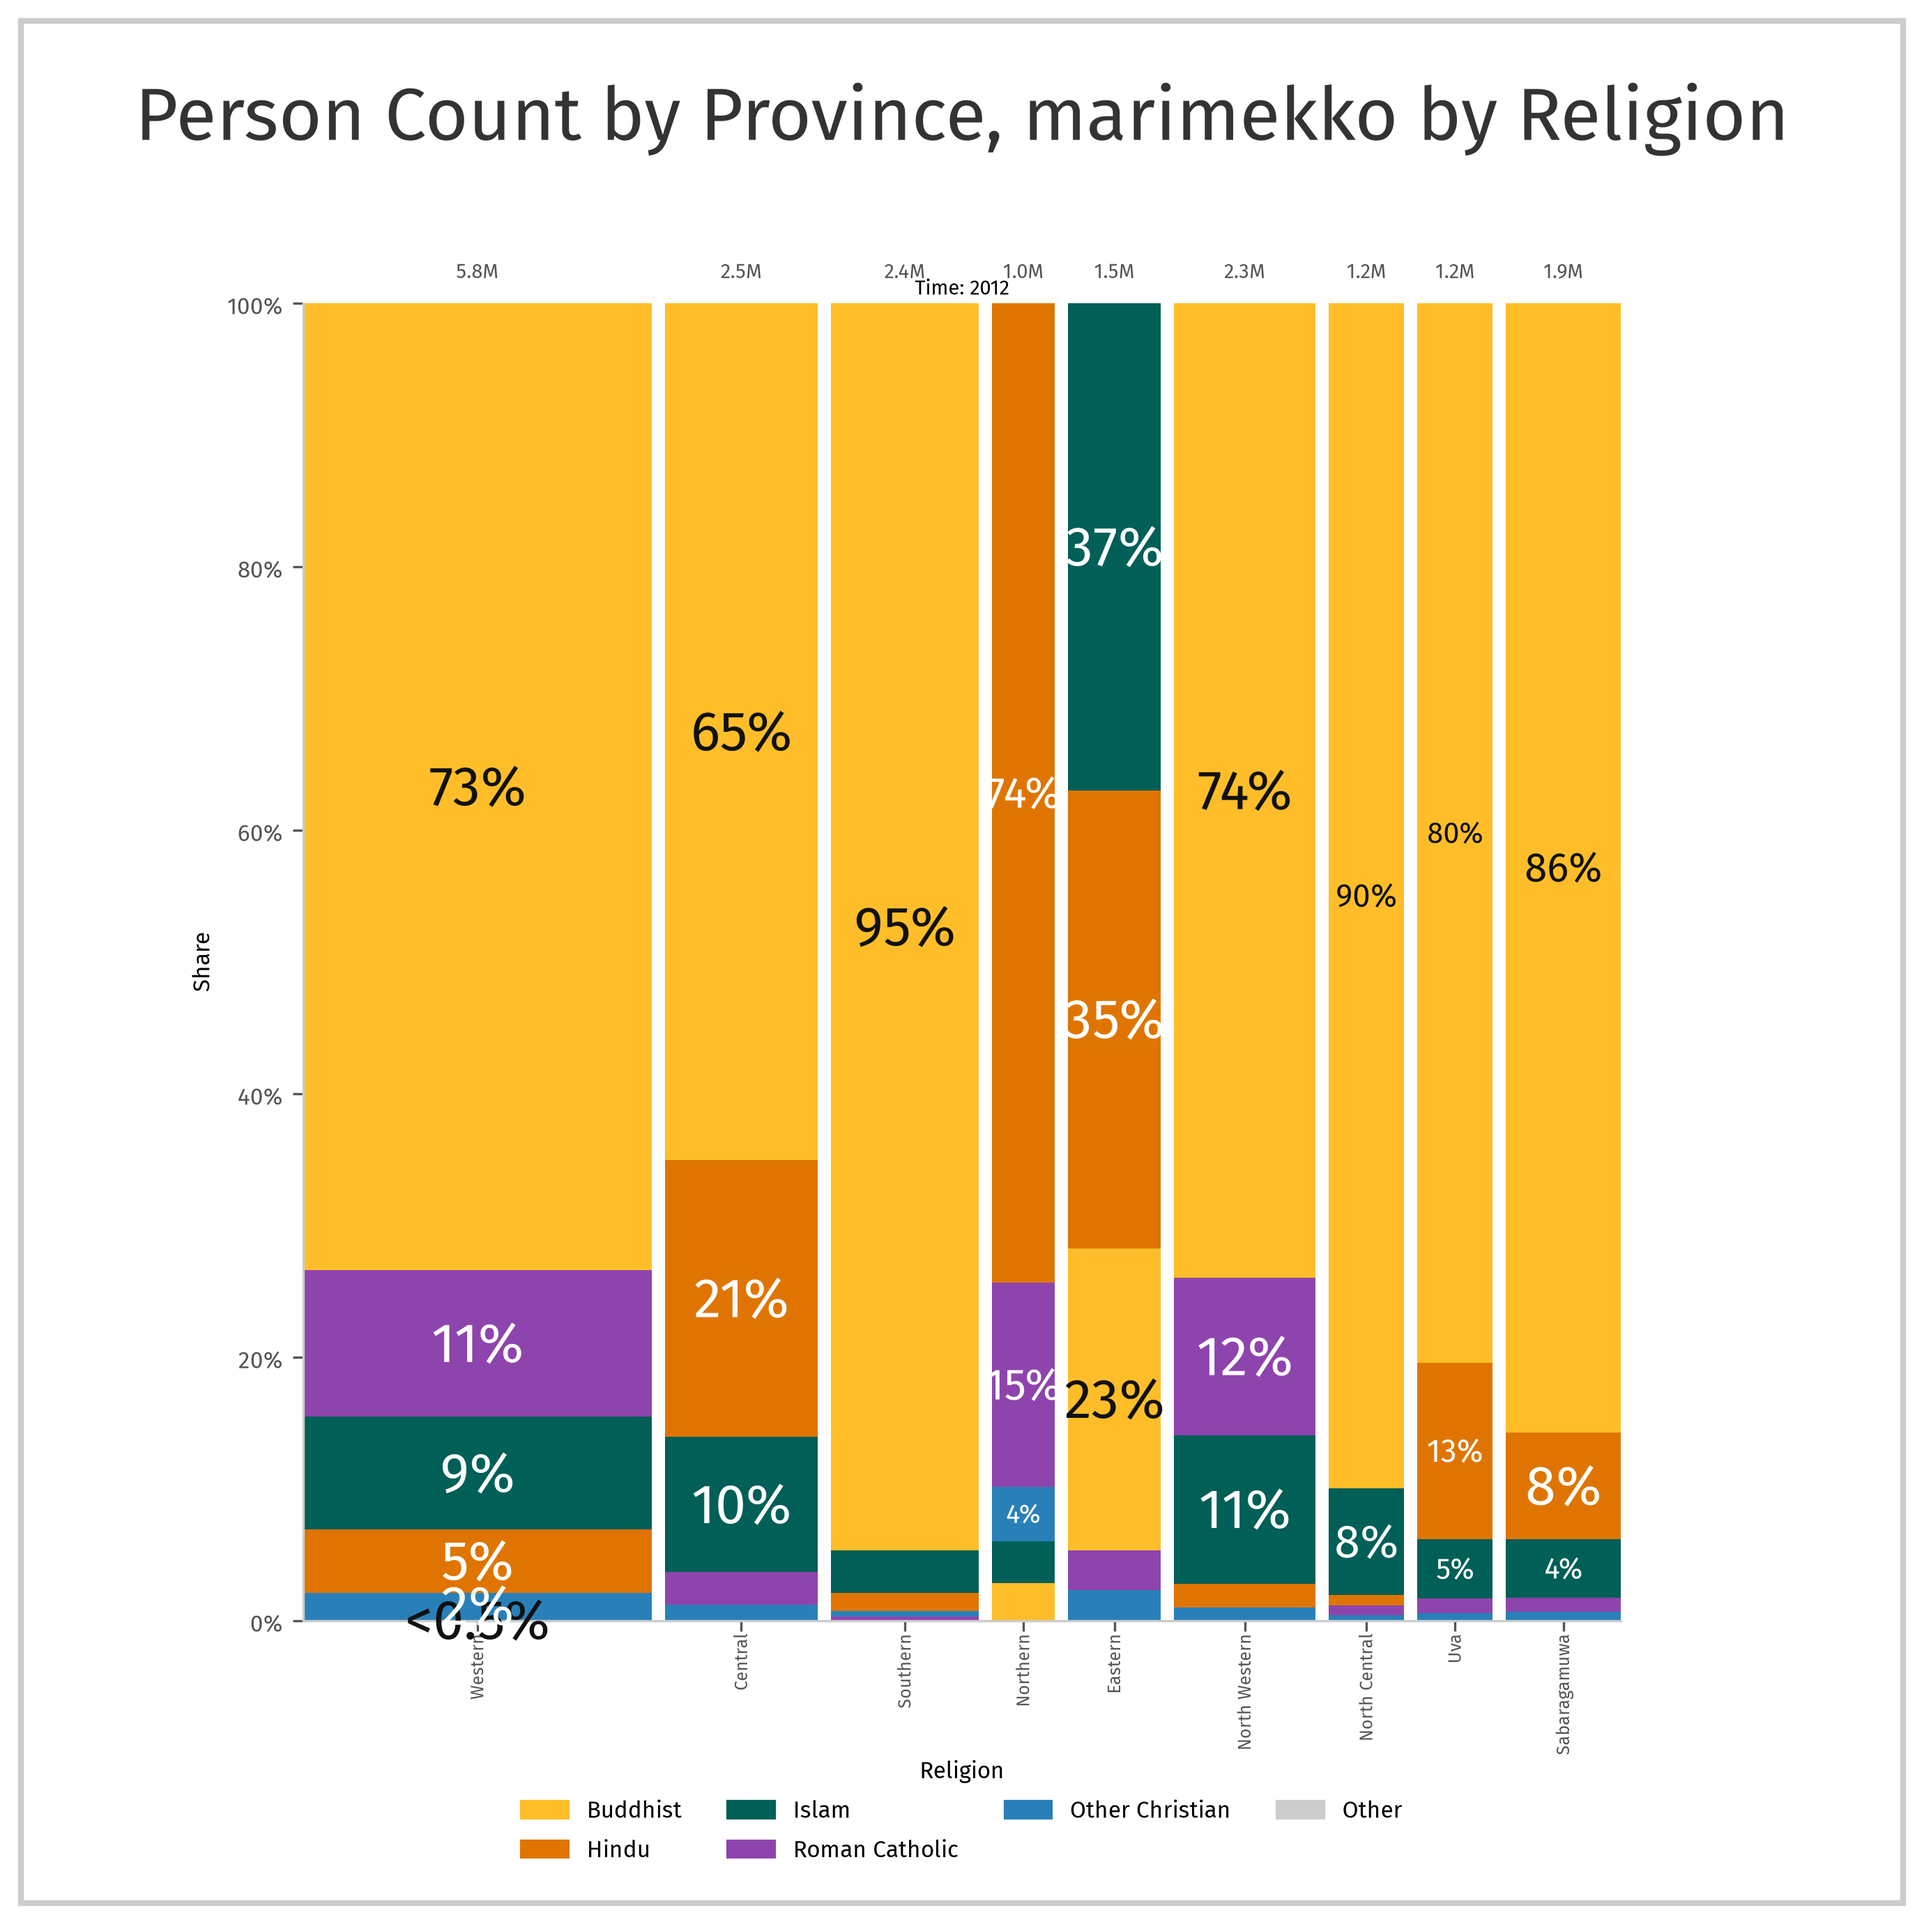
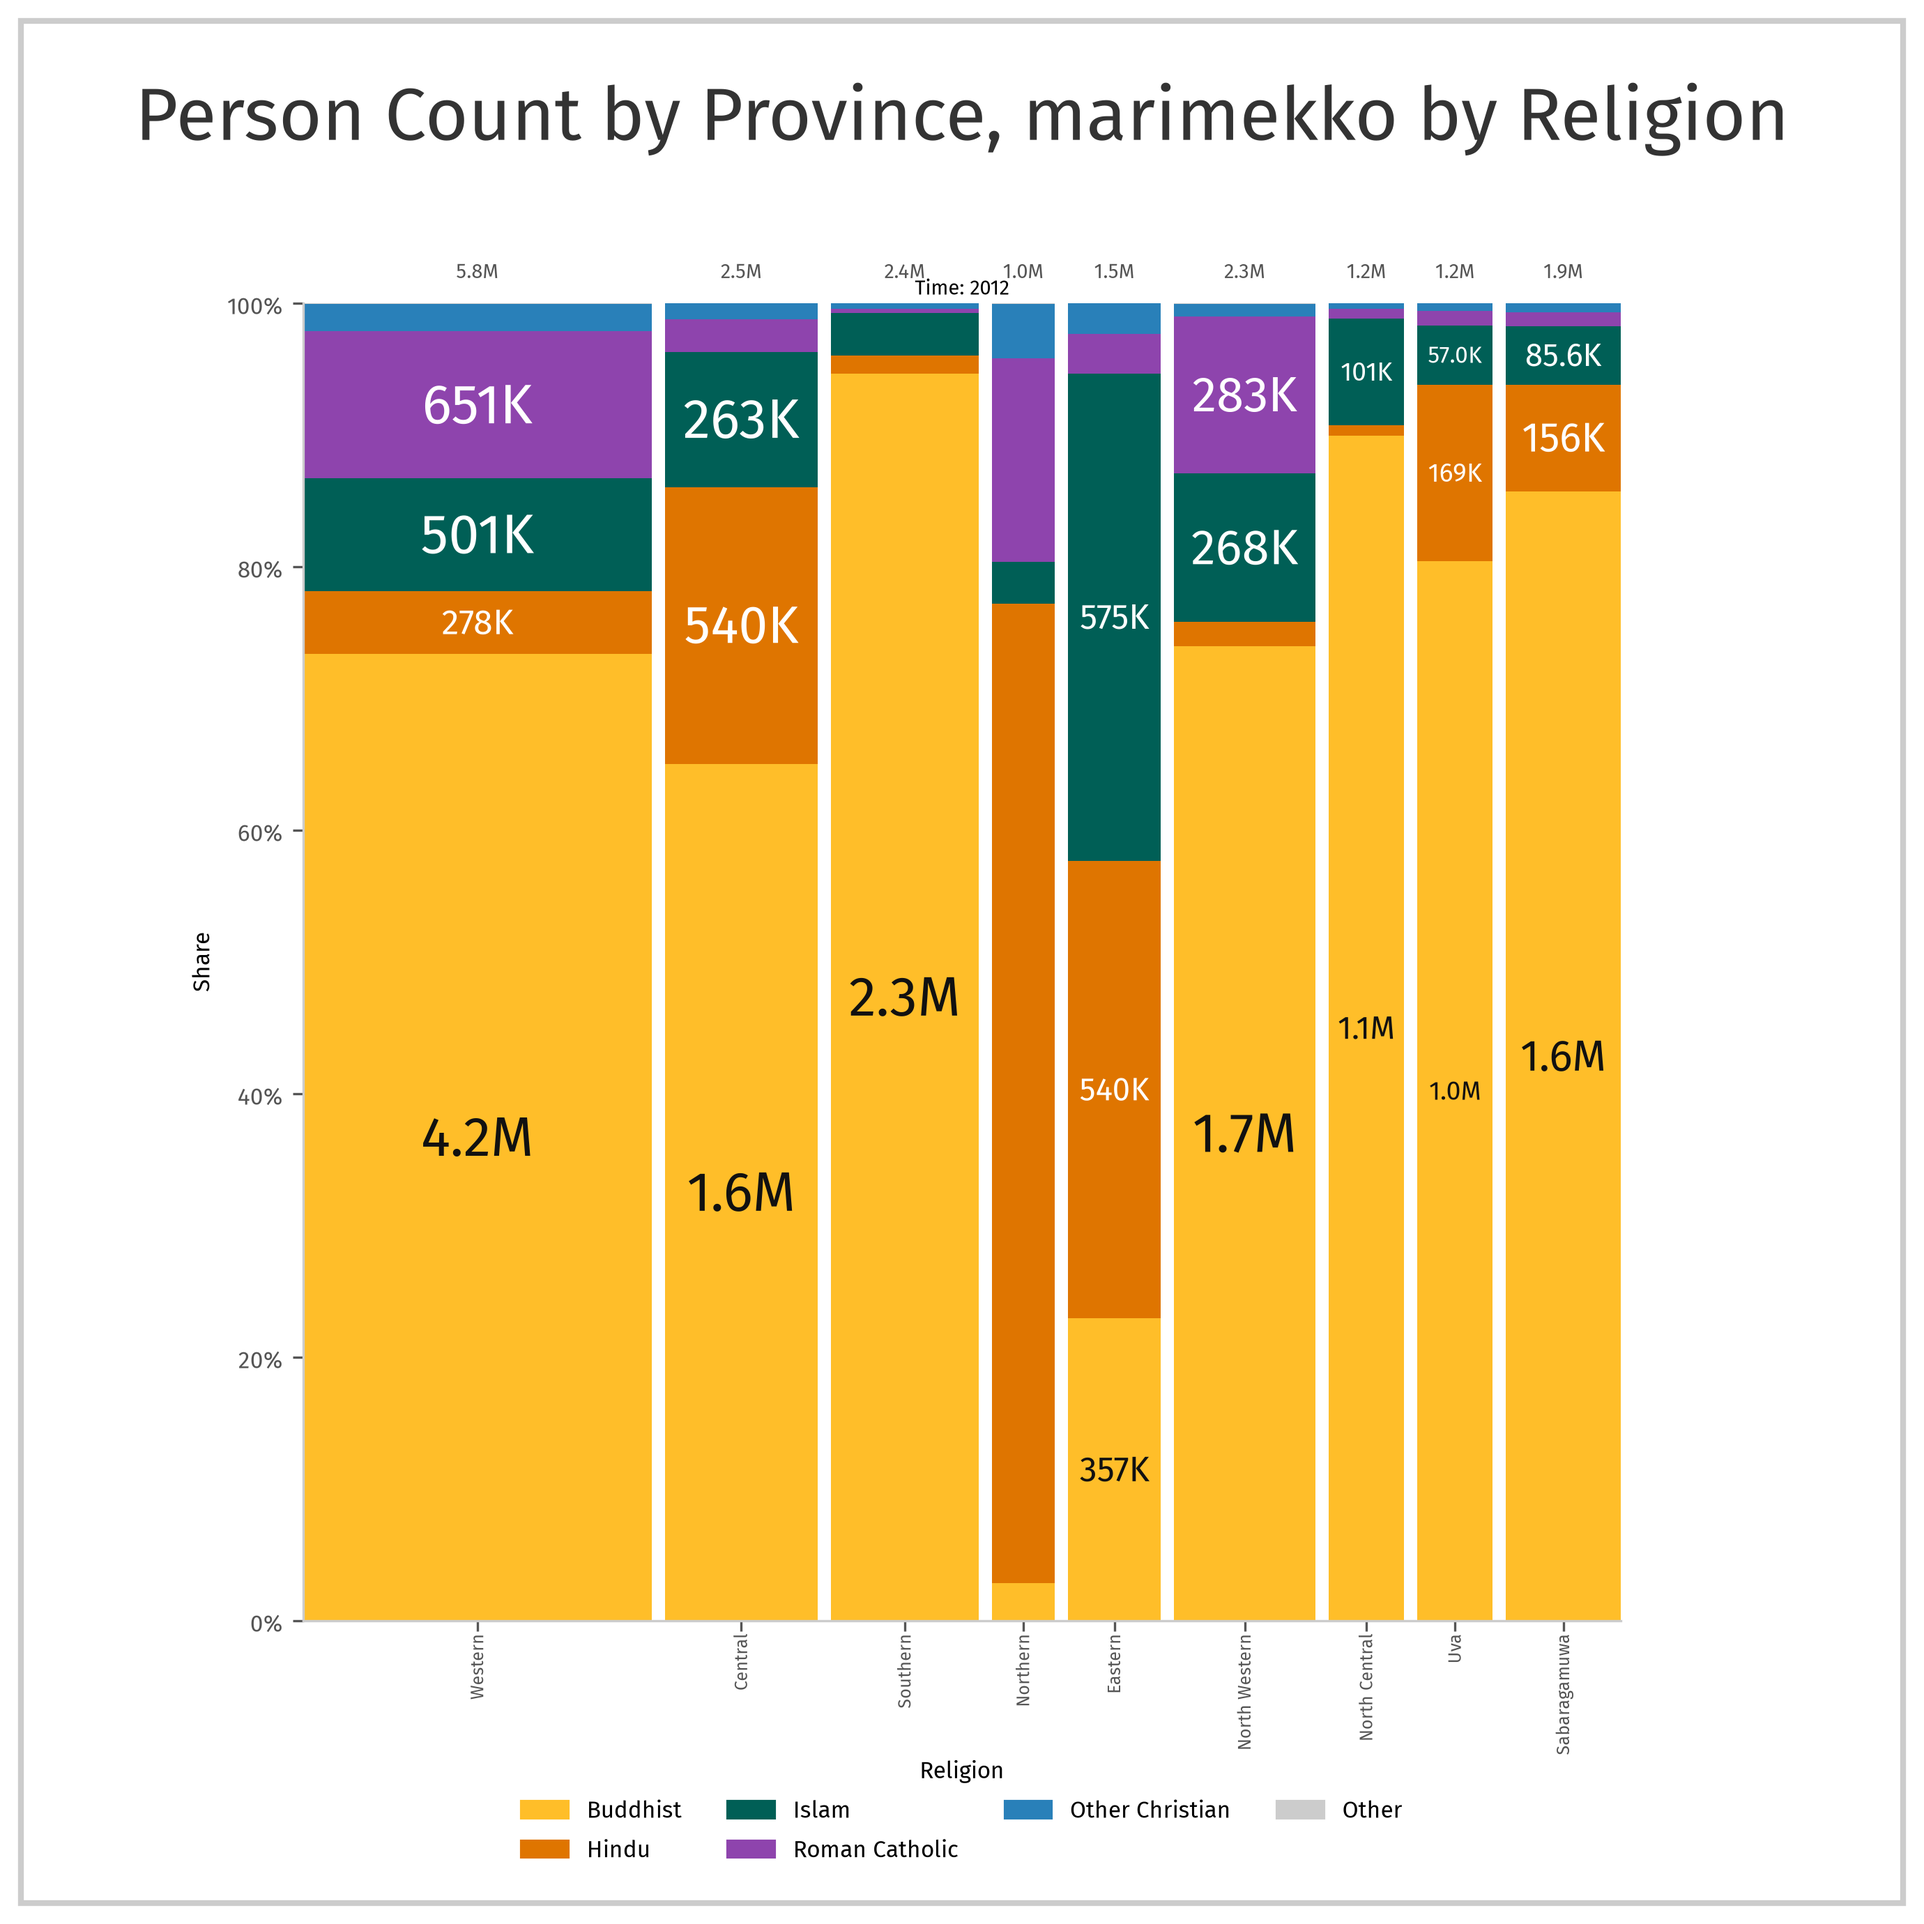
Enhance MarimekkoPlotMixin: add segment label handling and improve stack label sorting

diff --git a/src/ds/visual/marimekko/MarimekkoPlotMixin.py b/src/ds/visual/marimekko/MarimekkoPlotMixin.py
@@ -20,15 +20,21 @@ class MarimekkoPlotMixin:
             color=color,
         )
         self._register_hover(sub_ax, bars[0], stack_label, value)
-        self._add_stacked_bar_percentages(sub_ax, bars, [value], [total])
+        self._segment_labels.append((bars[0], value))
         return height
+
+    def _get_global_sorted_stack_labels(self, stack_labels, data):
+        return sorted(
+            stack_labels,
+            key=lambda stack_label: sum(data[stack_label].values()),
+            reverse=True,
+        )
 
     def _plot_bar(self, sub_ax, geometry, x_label, stack_labels, data, total):
         bottom = 0.0
-        sorted_stack_labels = self._get_sorted_stack_labels_for_x(
+        sorted_stack_labels = self._get_global_sorted_stack_labels(
             stack_labels,
             data,
-            x_label,
         )
         for stack_label in sorted_stack_labels:
             value = data[stack_label].get(x_label, 0.0)
@@ -43,11 +49,19 @@ class MarimekkoPlotMixin:
                 bottom,
             )
 
+    def _add_segment_labels(self, sub_ax):
+        for rect, value in self._segment_labels:
+            if value <= 0:
+                continue
+            label = self._format_humanized_value(float(value), None)
+            self._add_fitted_label_in_rect(sub_ax, rect, label)
+
     def _plot_subfigure(self, sub_ax, sub_datumset):
         x_labels, stack_labels, data = self._get_data(sub_datumset)
         totals = self._get_totals(x_labels, data)
         geometries = self._get_bar_geometry(totals)
         self._add_hover_annotation(sub_ax)
+        self._segment_labels = []
         for geometry, x_label, total in zip(geometries, x_labels, totals):
             if total <= 0 or geometry[1] <= 0:
                 continue
@@ -66,3 +80,4 @@ class MarimekkoPlotMixin:
             totals,
             sub_datumset,
         )
+        self._add_segment_labels(sub_ax)
